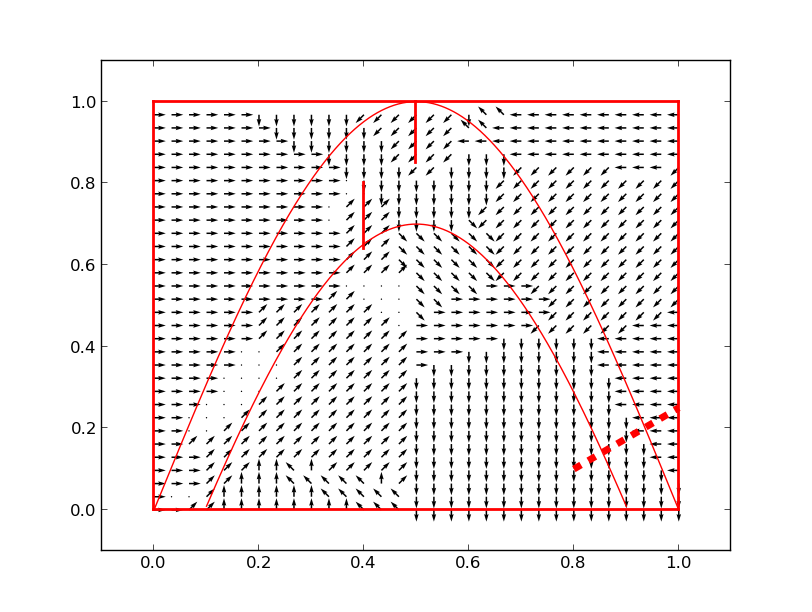
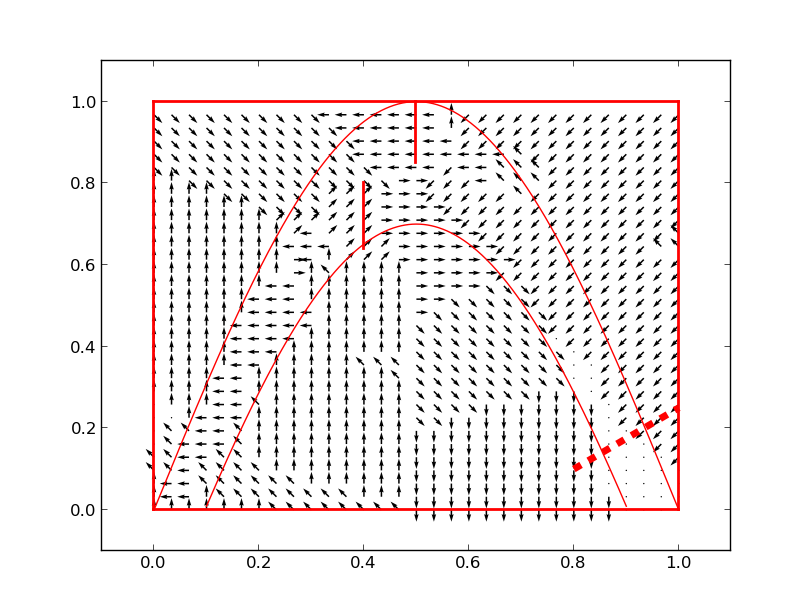
navigation plots

Changed region(s): [[0.1847, 0.1552, 0.8313, 0.8693], [0.8005, 0.3725, 0.8313, 0.4346]]

diff --git a/p2/car.py b/p2/car.py
@@ -97,12 +97,15 @@ class car:
         x_dir = zeros((xx+1,xx+1))
         y_dir = zeros((xx+1,xx+1))
         actions = zeros((xx+1,xx+1))
-        rv = [math.exp(-(math.pow(0-(j%11)*self.velGridDist-1,2) + math.pow(0-(int(j/11))*self.velGridDist-1,2))/2/math.pow(self.sigmav,2)) for j in range(121)]
+        rv = self.eval_activities(0, 0, self.v_gridx, self.v_gridy, self.sigmav)
+        
         for l in range(xx+1):
             for k in range(xx+1):
-                rp = [math.exp(-(math.pow(l/float(xx)-(j%31)*self.posGridDist,2) + math.pow(k/float(xx)-(int(j/31))*self.posGridDist,2))/2/math.pow(self.sigmap,2)) for j in range(961)]
-                qs = [dot(self.weights[i,0:961],rp) + dot(self.weights[i,961:1082],rv) for i in range(9)]
-                actions[k,l] = qs.index(max(qs))
+                rp = self.eval_activities(l/float(xx), k/float(xx), self.p_gridx, self.p_gridy, self.sigmap)
+                rs = np.concatenate((rp,rv))
+                qs = dot(self.weights,rs)
+                actions[k,l] = np.argmax(qs)
+
         x_dir[actions == 0] = 0*scale
         y_dir[actions == 0] = 0*scale
         x_dir[actions == 1] = 0.707*scale
